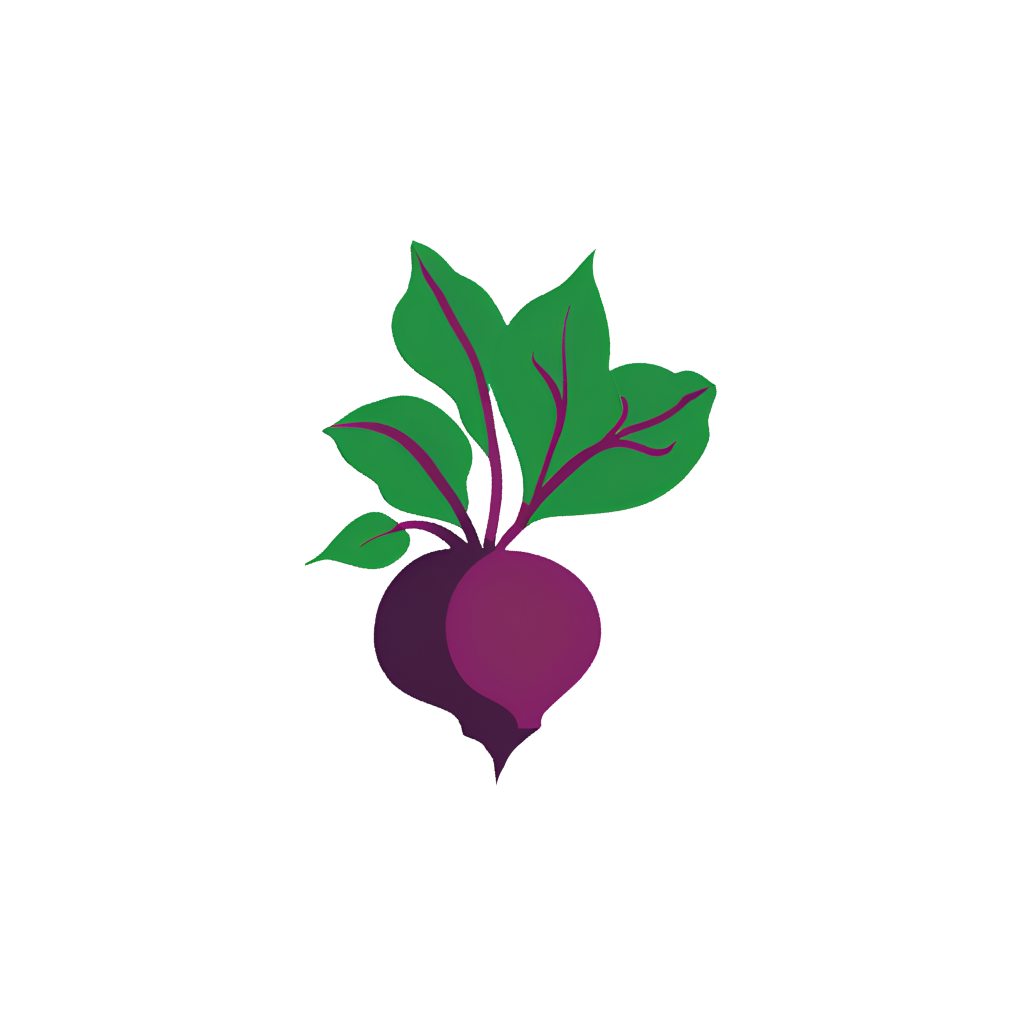
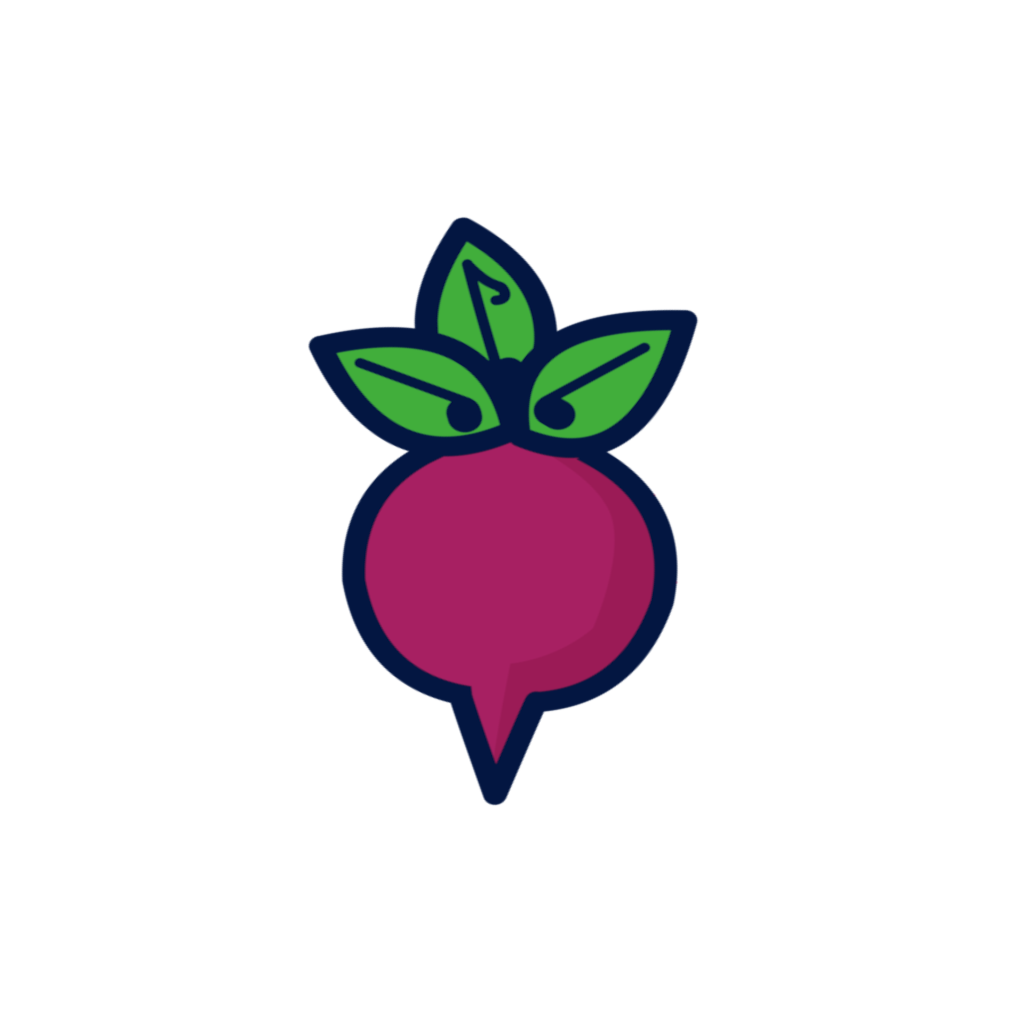
novo icone + cleanup

Changed region(s): [[0.2812, 0.1875, 0.7188, 0.7812]]

diff --git a/components/ModalSettings/index.tsx b/components/ModalSettings/index.tsx
@@ -1,5 +1,5 @@
 import React, { useState } from 'react';
-import { Text, ToastAndroid, View } from 'react-native';
+import { ToastAndroid, View } from 'react-native';
 import { createStyles } from './styles';
 import { BasicModal } from '../BasicModal';
 import { SettingsSwitch } from '../SettingsSwitch';

diff --git a/components/Slider/index.tsx b/components/Slider/index.tsx
@@ -18,7 +18,6 @@ export const Slider = ({ value, minValue, maxValue, defaultValue, tag, onValueCh
     };
 
      useEffect(() => {
-       
         if (containerWidth > 0) {
             initialPos.current = calculateInitialPos(volume ? value : defaultValue!);
             setLoaded(true)
